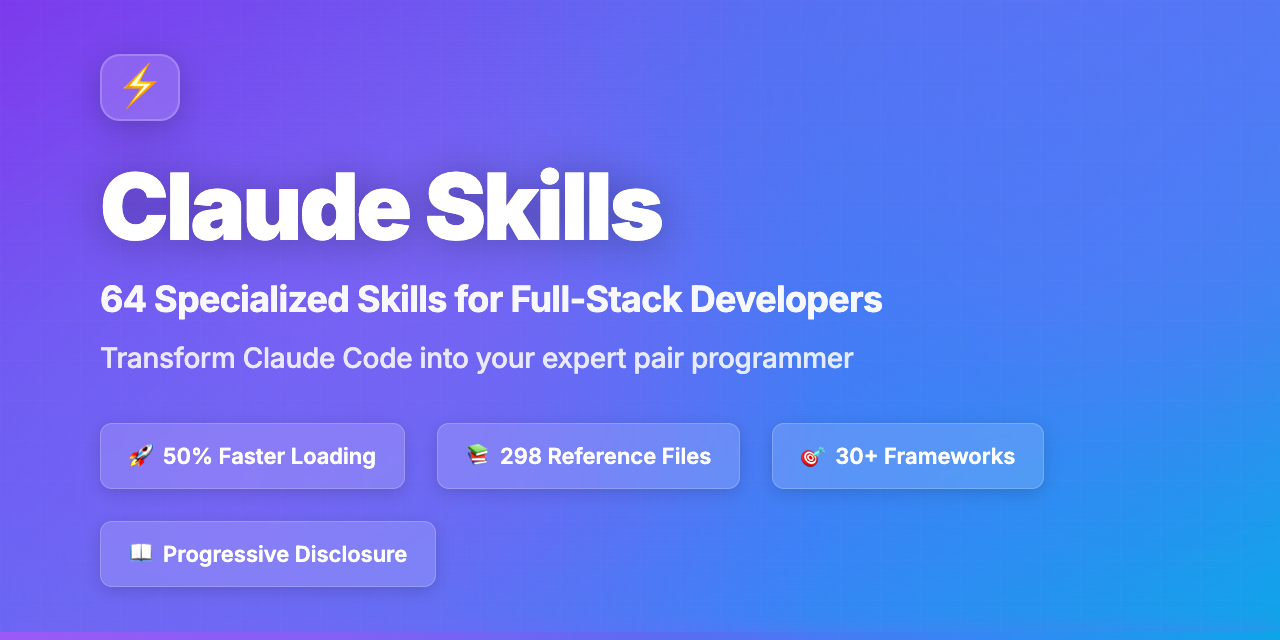
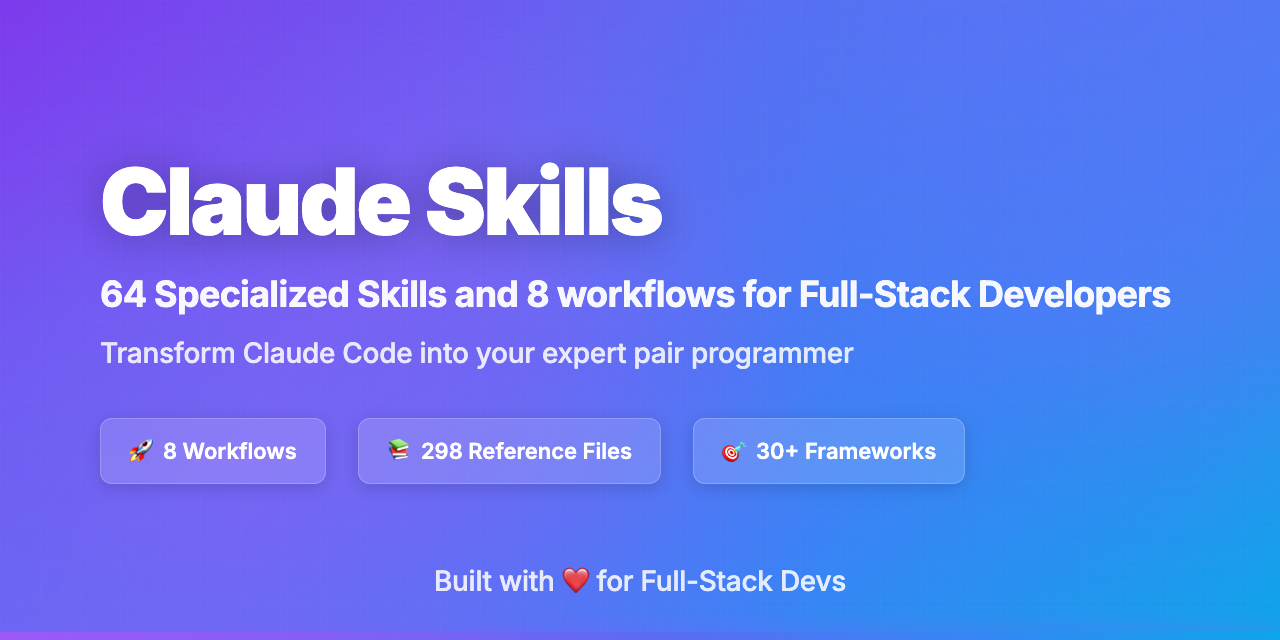
adds polish to readme and social preview

diff --git a/assets/social-preview.html b/assets/social-preview.html
@@ -121,6 +121,16 @@
             letter-spacing: -0.01em;
         }
 
+        /* Bottom tagline - centered and lower */
+        .bottom-tagline {
+            position: absolute;
+            bottom: 40px;
+            left: 50%;
+            transform: translateX(-50%);
+            z-index: 20;
+            margin-bottom: 0;
+        }
+
         /* Stats container */
         .stats {
             display: flex;
@@ -222,23 +232,22 @@
         <!-- Main content -->
         <div class="content">
             <!-- Icon -->
-            <div class="icon">⚡</div>
+            <!-- <div class="icon">⚡</div> -->
 
             <!-- Title -->
             <h1 class="title">Claude Skills</h1>
 
             <!-- Subtitle -->
-            <h2 class="subtitle">64 Specialized Skills for Full-Stack Developers</h2>
+            <h2 class="subtitle">64 Specialized Skills and 8 workflows for Full-Stack Developers</h2>
 
             <!-- Tagline -->
             <p class="tagline">Transform Claude Code into your expert pair programmer</p>
-
             <!-- Stats -->
             <div class="stats">
                 <div class="stat">
                     <div class="stat-content">
                         <span class="stat-icon">🚀</span>
-                        <span>50% Faster Loading</span>
+                        <span>8 Workflows</span>
                     </div>
                 </div>
                 <div class="stat">
@@ -253,14 +262,11 @@
                         <span>30+ Frameworks</span>
                     </div>
                 </div>
-                <div class="stat">
-                    <div class="stat-content">
-                        <span class="stat-icon">📖</span>
-                        <span>Progressive Disclosure</span>
-                    </div>
-                </div>
             </div>
         </div>
+
+        <!-- Centered tagline at bottom -->
+        <p class="tagline bottom-tagline">Built with ❤ for Full-Stack Devs</p>
 
         <!-- Bottom accent -->
         <div class="bottom-accent"></div>
